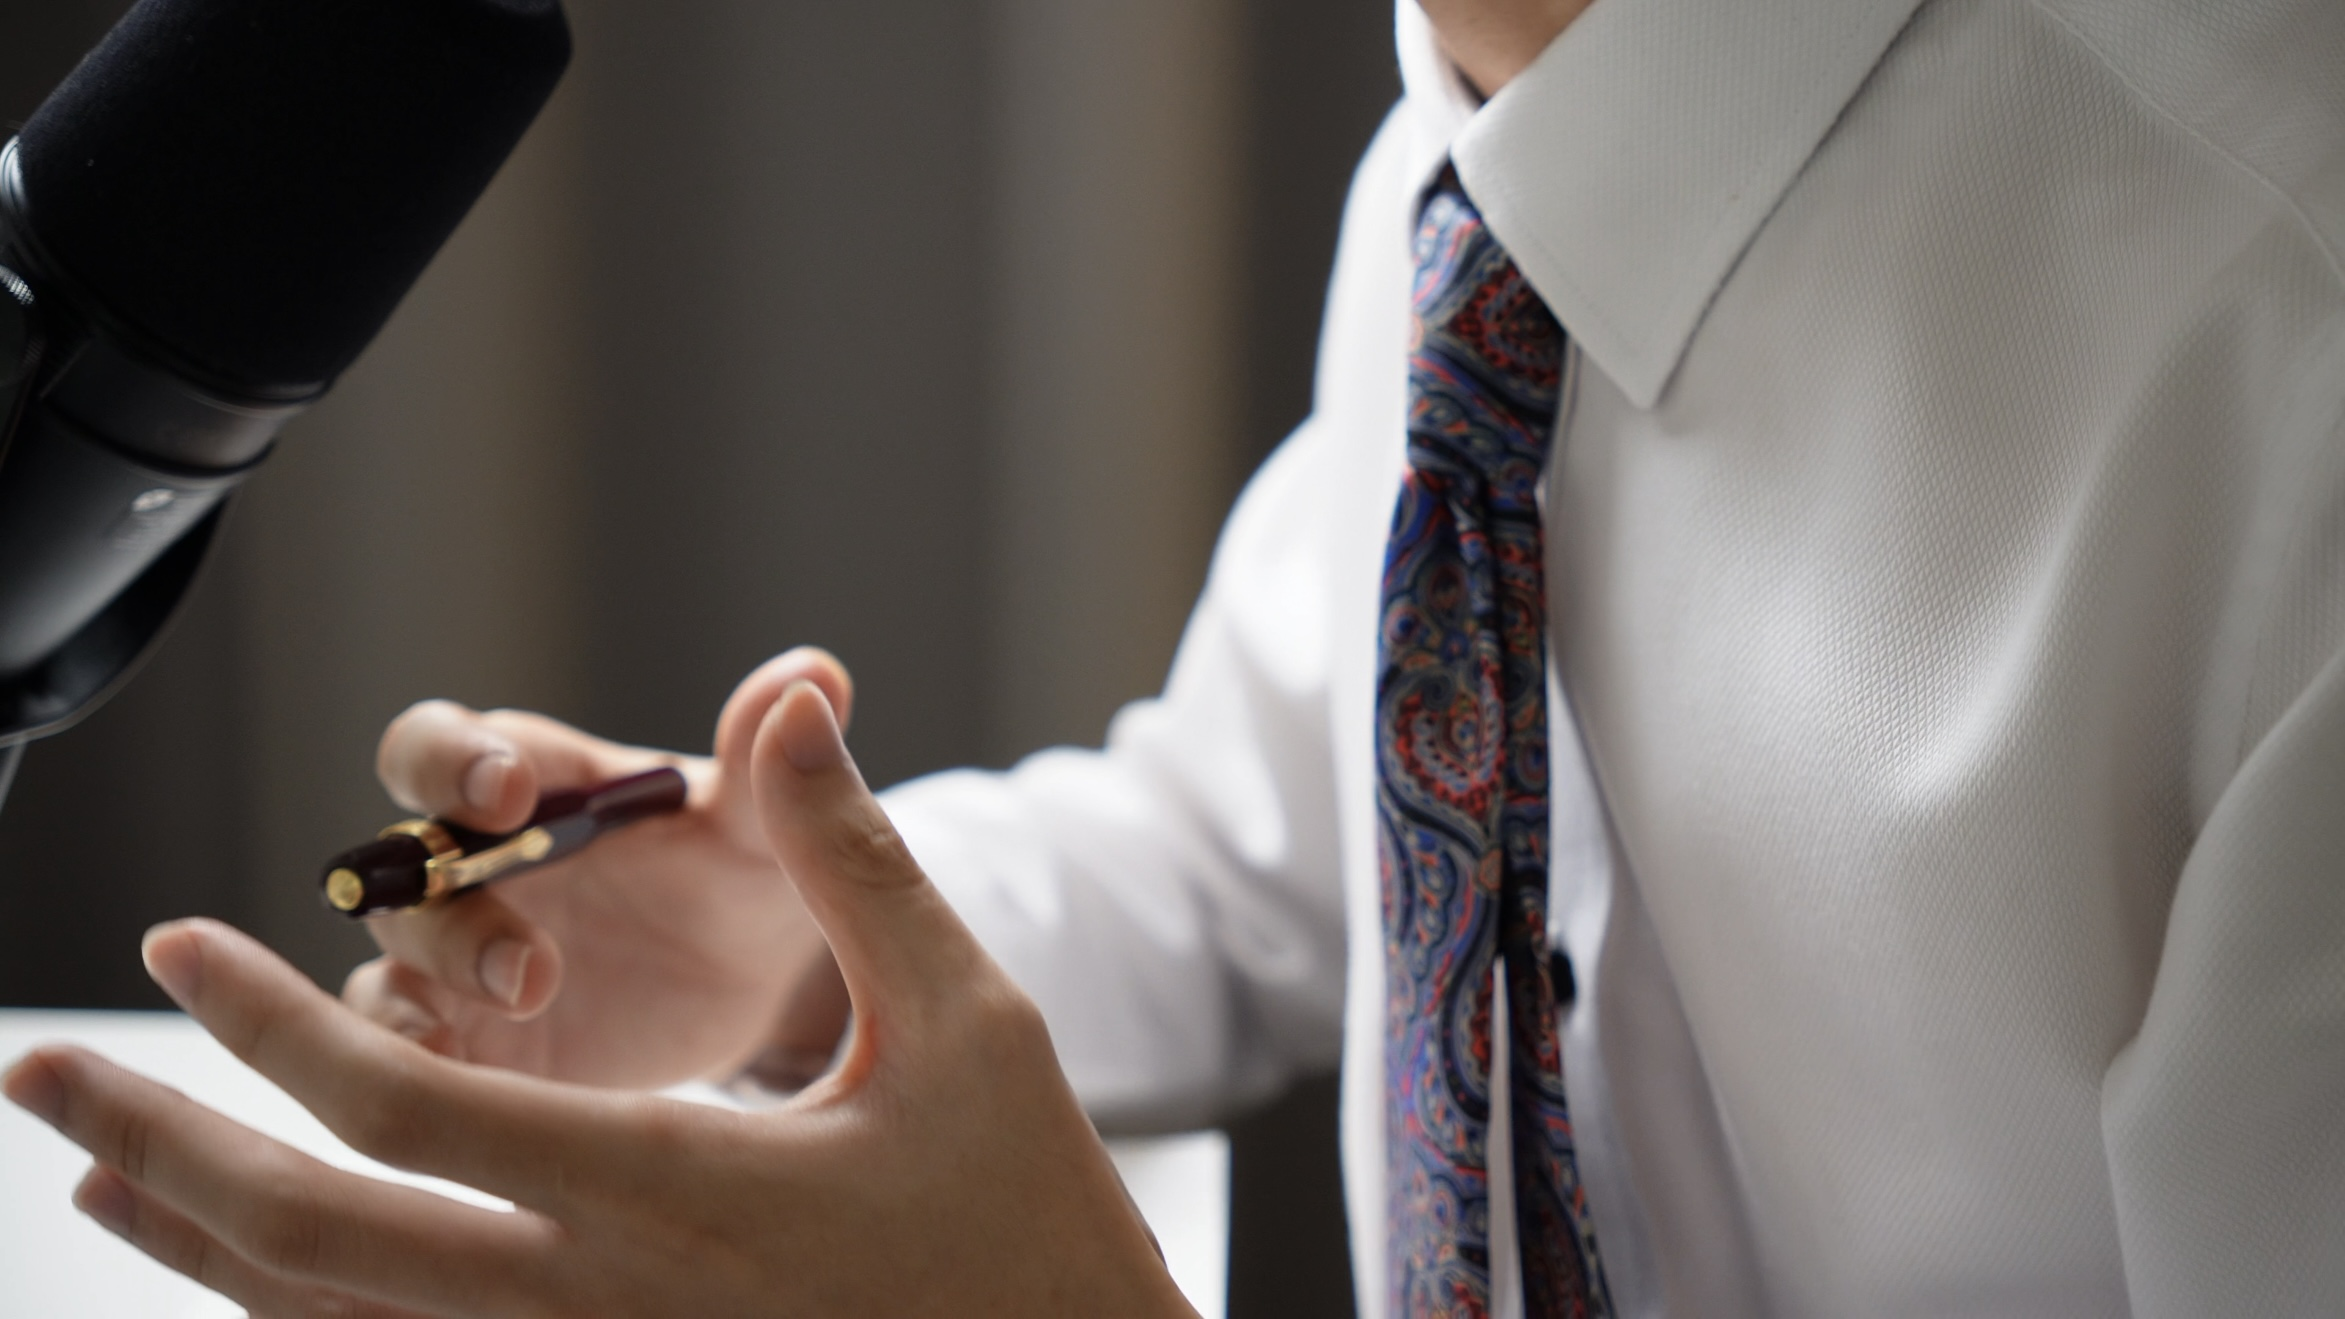
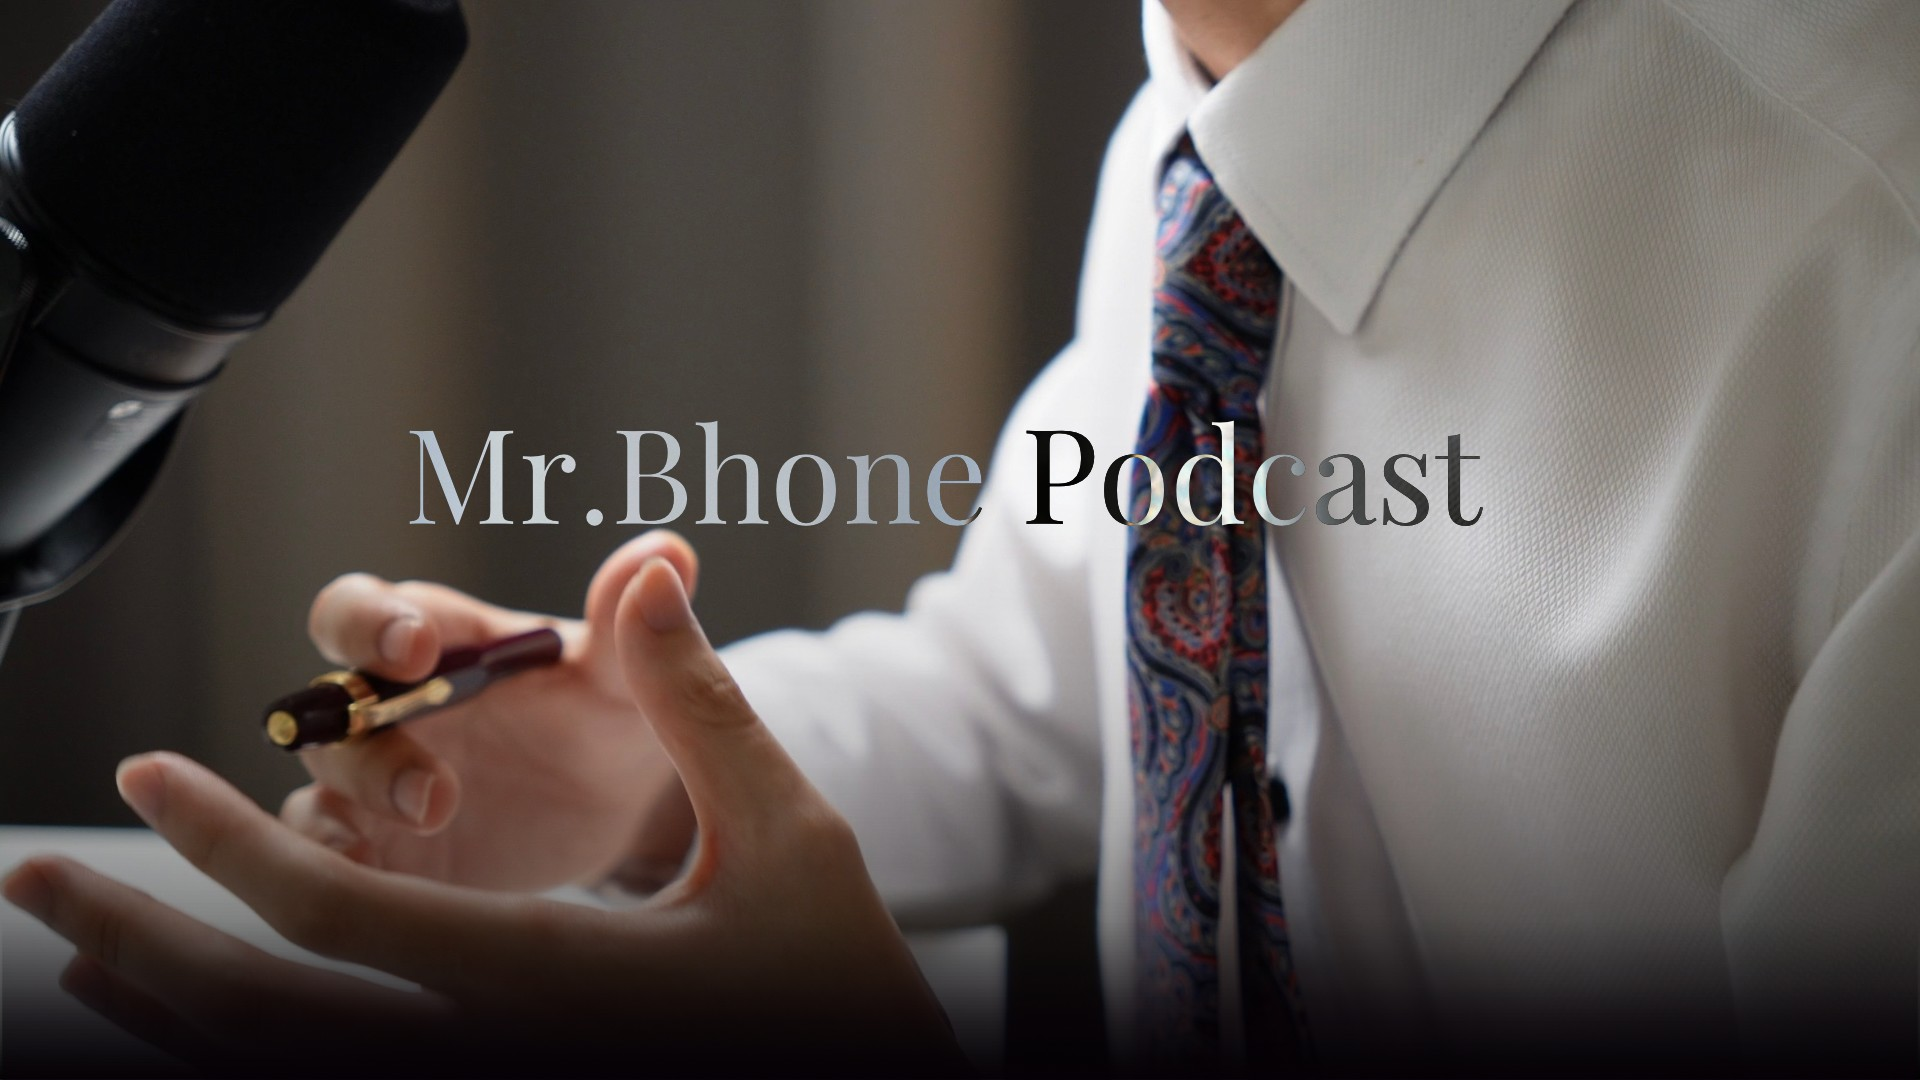
Use title-card hero image, drop redundant heading
Swap in the version of the hero photo with "Mr.Bhone Podcast"
baked into the graphic, and remove the separate HTML title since
the image now carries it.

Claude-Session: https://claude.ai/code/session_01A96YkKtHxxrEsxms8mgULv

Changed region(s): [[0.0, 0.6111, 1.0, 1.0], [0.2188, 0.3972, 0.7812, 0.4889]]

diff --git a/podcast.html b/podcast.html
@@ -52,7 +52,6 @@
       <img src="./assets/media/podcast-hero.jpg" alt="Mr. Bhone Podcast — Real Talk. Real Growth." class="podcast-hero__media-img">
     </div>
     <div class="podcast-hero__inner">
-      <h1 class="podcast-hero__title">Mr. Bhone Podcast</h1>
       <p class="podcast-hero__tagline">Real Talk. Real Growth.</p>
       <p class="podcast-hero__desc">Conversations with people who've actually built something.</p>
       <a href="https://www.youtube.com/playlist?list=PLkiFUqQ1e3bVp9LyS1V5kyEpzMT0FyiCr" target="_blank" rel="noopener noreferrer" class="btn btn--filled btn--large">

diff --git a/style.css b/style.css
@@ -539,15 +539,6 @@ strong {
   padding: 40px var(--container-padding) 0;
 }
 
-.podcast-hero__title {
-  font-family: var(--font-serif);
-  font-size: clamp(32px, 5vw, 44px);
-  font-weight: 700;
-  color: var(--text-primary);
-  margin-top: 12px;
-  margin-bottom: 8px;
-}
-
 .podcast-hero__tagline {
   font-family: var(--font-serif);
   font-size: 18px;
